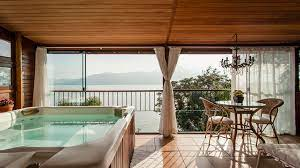
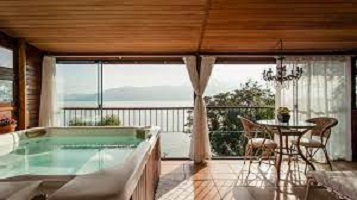
essa parte tambem

diff --git a/estilo/estilos.css b/estilo/estilos.css
@@ -56,7 +56,7 @@ nav ul li a {
     justify-items: center;
 }
 .card {
-	background-color: #f8f8f8;
+	background-color: #0cbeeb;
 	box-shadow: 0px 0px 10px rgba(0, 0, 0, 0.3);
 	min-height: 300px;
 	min-width: 400px;
@@ -72,7 +72,7 @@ nav ul li a {
 	max-width: 100%;
 	height: auto;
     border-radius: 50%;
-    border:5px solid #3399ff;
+    border:5px solid #f8da53;
     margin:10px;
 }
 .card h2 {

diff --git a/dados/hoteis.php b/dados/hoteis.php
@@ -14,7 +14,7 @@ $hoteis = [
         "local" => "Criciúma - Santa Catarina",
         "avaliacao" => "8.3 - Muito bom",
         "preco" => "R$103,00 pernoite.",
-        "foto" => "../imagens/GuestHouseIsadoraDuncan.webp",
+        "foto" => "../imagens/GuestHouseIsadoraDuncan.jpg",
     ],
 
     [
@@ -55,7 +55,7 @@ $hoteis = [
         "local" => "Curitiba - Paraná",
         "avaliacao" => "9.9 - Excelente",
         "preco" => "R$280,00 pernoite",
-        "foto" => "../imagens/HotelEvelina.webp",
+        "foto" => "../imagens/HotelEvelina.jpg",
       ],
 
       [
